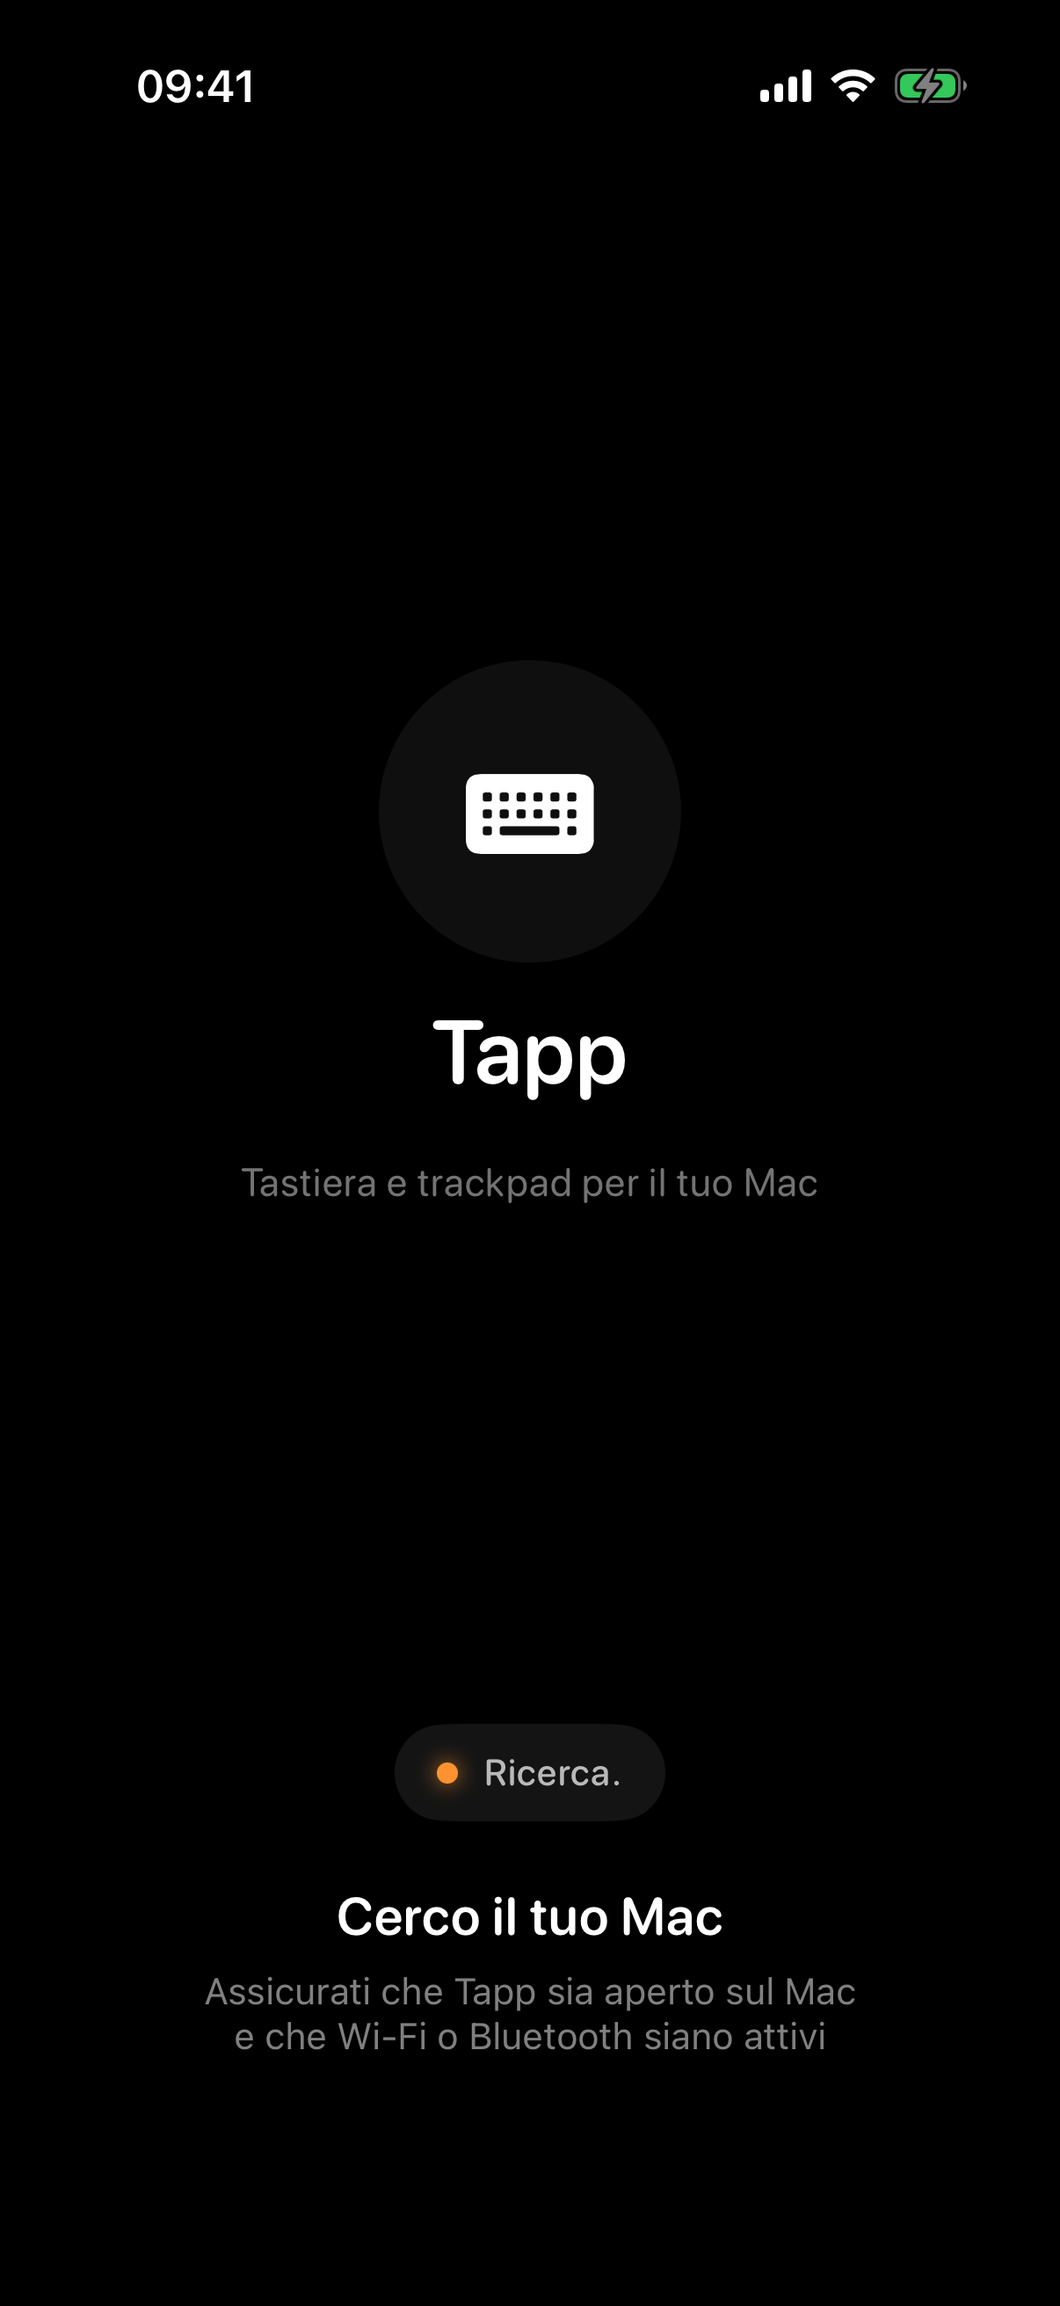
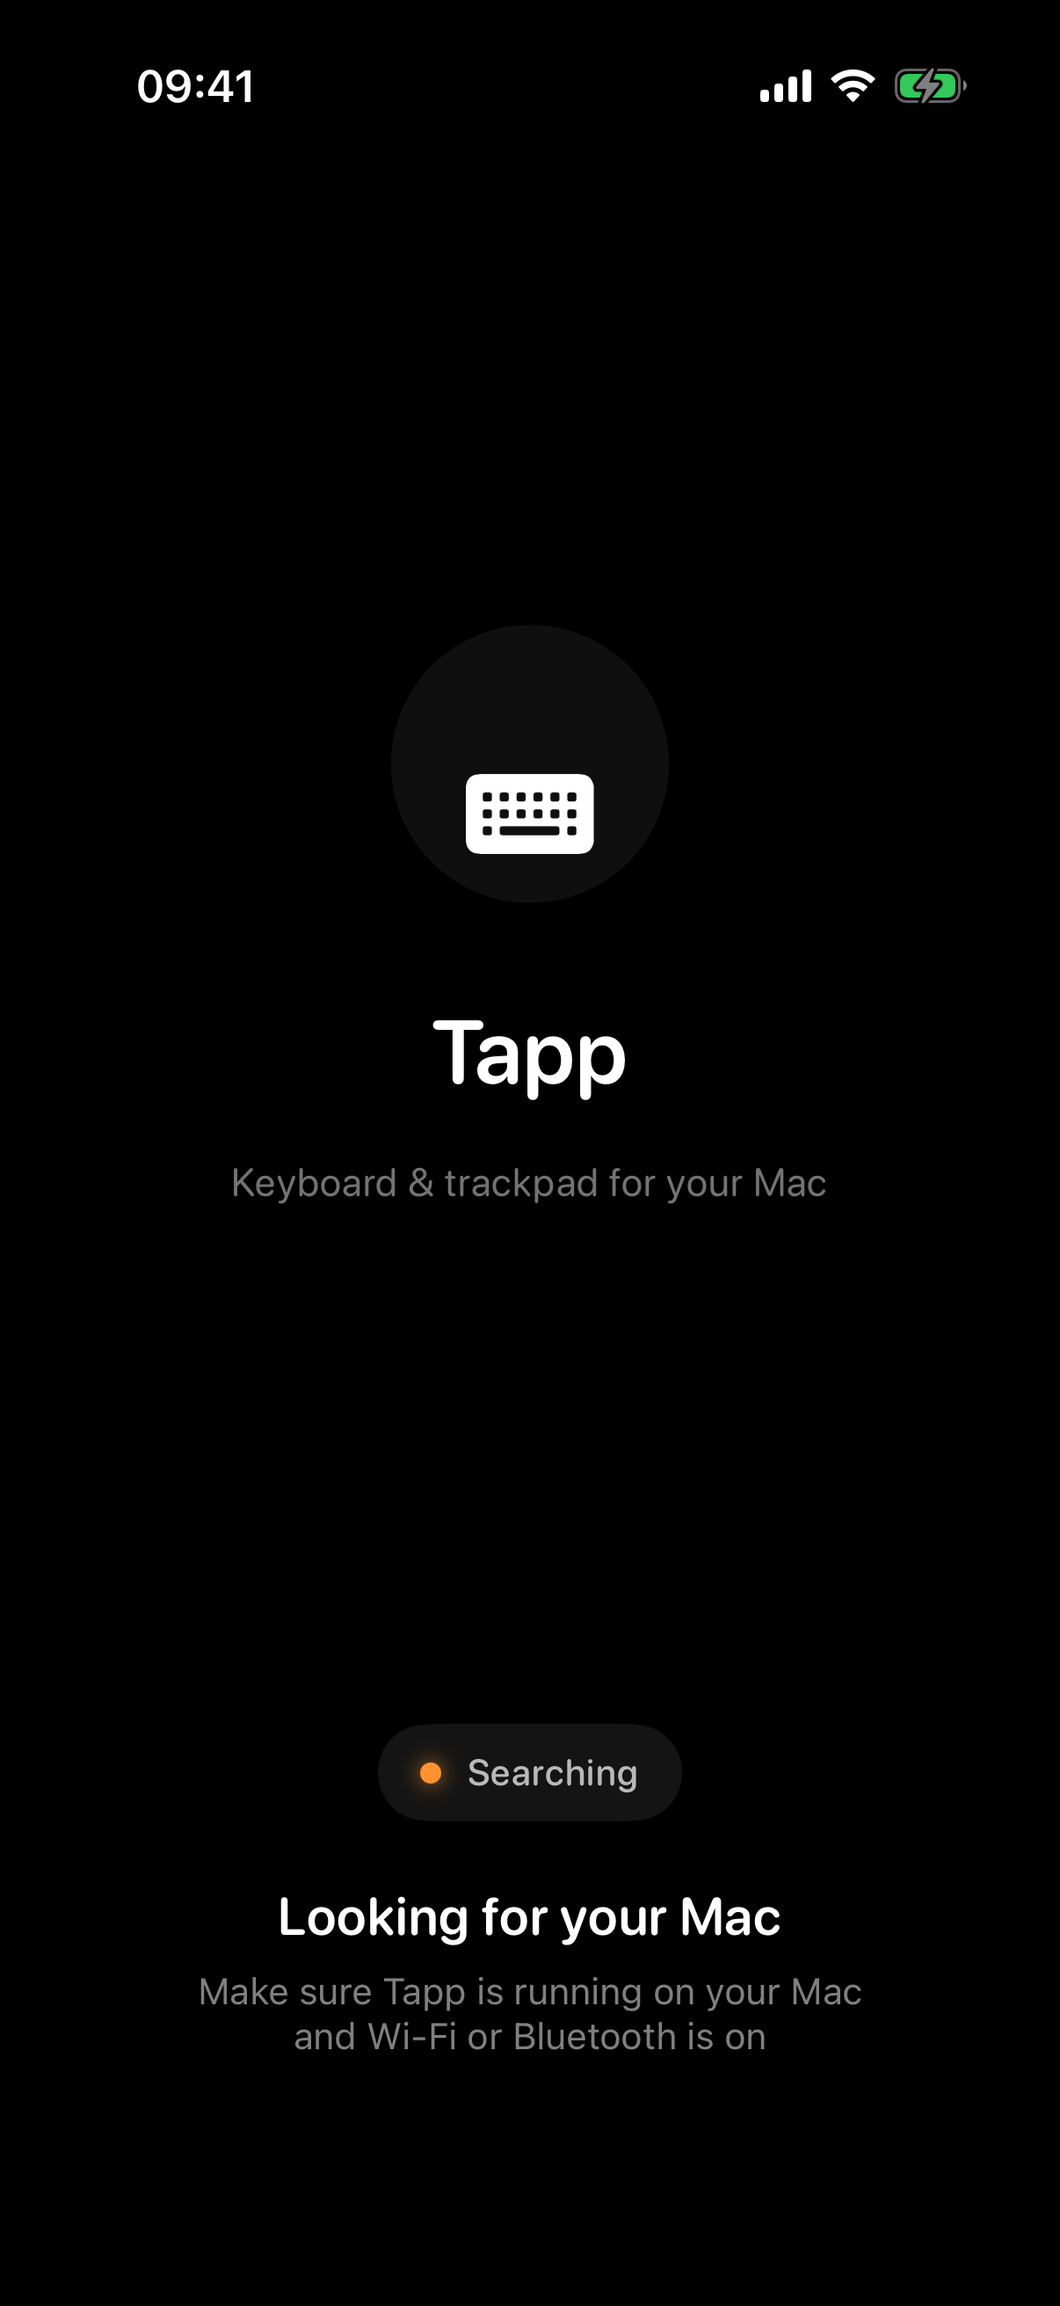
Translate app UI to English and refresh screenshots

diff --git a/Tapp/Tapp/TappMacOS/MacStatusWindowView.swift b/Tapp/Tapp/TappMacOS/MacStatusWindowView.swift
@@ -23,7 +23,7 @@ struct MacStatusWindowView: View {
                 Text("Tapp Mac Companion")
                     .font(.system(size: 20, weight: .bold, design: .rounded))
 
-                Text("Il tuo Mac è pronto per essere controllato dall'iPhone")
+                Text("Your Mac is ready to be controlled from your iPhone")
                     .font(.system(size: 13))
                     .foregroundColor(.secondary)
                     .multilineTextAlignment(.center)
@@ -41,12 +41,12 @@ struct MacStatusWindowView: View {
                         .shadow(color: (server.isClientConnected ? Color.green : Color.orange).opacity(0.6), radius: 4)
 
                     VStack(alignment: .leading, spacing: 2) {
-                        Text(server.isClientConnected ? (server.connectedPeerName ?? "iPhone Connesso") : "In attesa di connessione...")
+                        Text(server.isClientConnected ? (server.connectedPeerName ?? "iPhone connected") : "Waiting for connection…")
                             .font(.system(size: 14, weight: .semibold, design: .rounded))
 
                         Text(server.isClientConnected
-                             ? "Connessione attiva: pronto a ricevere comandi"
-                             : "Apri Tapp sull'iPhone (Bluetooth o Wi-Fi attivo)")
+                             ? "Connected: ready to receive input"
+                             : "Open Tapp on your iPhone (Wi-Fi or Bluetooth on)")
                             .font(.system(size: 12))
                             .foregroundColor(.secondary)
                     }
@@ -65,12 +65,12 @@ struct MacStatusWindowView: View {
                             .foregroundColor(permissionManager.isAccessibilityGranted ? .green : .orange)
 
                         VStack(alignment: .leading, spacing: 2) {
-                            Text(permissionManager.isAccessibilityGranted ? "Permesso Accessibilità: Concesso" : "Accessibilità richiesta")
+                            Text(permissionManager.isAccessibilityGranted ? "Accessibility permission granted" : "Accessibility required")
                                 .font(.system(size: 14, weight: .semibold, design: .rounded))
 
                             Text(permissionManager.isAccessibilityGranted
-                                 ? "Il Mac può ricevere input di tastiera e mouse"
-                                 : "Abilita Tapp in Impostazioni di Sistema per consentire mouse e tastiera")
+                                 ? "Your Mac can receive keyboard and mouse input"
+                                 : "Enable Tapp in System Settings to allow mouse and keyboard control")
                                 .font(.system(size: 12))
                                 .foregroundColor(.secondary)
                         }
@@ -80,7 +80,7 @@ struct MacStatusWindowView: View {
                         if permissionManager.isAccessibilityGranted {
                             HStack(spacing: 8) {
                                 Button(action: {}) {
-                                    Label("Concesso", systemImage: "checkmark")
+                                    Label("Granted", systemImage: "checkmark")
                                 }
                                 .buttonStyle(.bordered)
                                 .tint(.green)
@@ -92,15 +92,15 @@ struct MacStatusWindowView: View {
                                 }) {
                                     HStack(spacing: 4) {
                                         Image(systemName: "gearshape")
-                                        Text("Impostazioni")
+                                        Text("Settings")
                                     }
                                 }
                                 .buttonStyle(.bordered)
                                 .controlSize(.small)
-                                .help("Apri Impostazioni Privacy e Accessibilità del Mac")
+                                .help("Open Privacy & Security → Accessibility")
                             }
                         } else {
-                            Button("Apri Impostazioni") {
+                            Button("Open Settings") {
                                 permissionManager.openAccessibilityPrefs()
                             }
                             .buttonStyle(.borderedProminent)
@@ -111,19 +111,19 @@ struct MacStatusWindowView: View {
 
                     if !permissionManager.isAccessibilityGranted {
                         HStack(spacing: 12) {
-                            Text("Se l'hai già attivato nelle Impostazioni:")
+                            Text("Already enabled it in Settings?")
                                 .font(.system(size: 11))
                                 .foregroundColor(.secondary)
 
                             Spacer()
 
-                            Button("Ho già attivato") {
+                            Button("I've enabled it") {
                                 permissionManager.confirmManually()
                             }
                             .buttonStyle(.bordered)
                             .controlSize(.mini)
 
-                            Button("Riavvia App") {
+                            Button("Relaunch App") {
                                 permissionManager.relaunchApp()
                             }
                             .buttonStyle(.bordered)
@@ -143,20 +143,20 @@ struct MacStatusWindowView: View {
             HStack {
                 Image(systemName: "menubar.rectangle")
                     .foregroundColor(.secondary)
-                Text("Tapp è sempre attivo anche nella barra dei menu in alto a destra.")
+                Text("Tapp keeps running in the menu bar, top right.")
                     .font(.system(size: 11))
                     .foregroundColor(.secondary)
             }
 
             HStack {
-                Button("Chiudi finestra (resta nella Menu Bar)") {
+                Button("Close Window (keep in Menu Bar)") {
                     NSApp.keyWindow?.close()
                 }
                 .buttonStyle(.bordered)
 
                 Spacer()
 
-                Button("Esci da Tapp") {
+                Button("Quit Tapp") {
                     NSApp.terminate(nil)
                 }
                 .buttonStyle(.plain)

diff --git a/Tapp/Tapp/TappIOS/Views/ControllerView.swift b/Tapp/Tapp/TappIOS/Views/ControllerView.swift
@@ -88,7 +88,7 @@ struct ControllerView: View {
                 Button {
                     keyboardVisible = true
                 } label: {
-                    Label("Mostra tastiera", systemImage: "keyboard")
+                    Label("Show Keyboard", systemImage: "keyboard")
                         .font(.system(size: 15, weight: .semibold, design: .rounded))
                         .foregroundColor(.black)
                         .frame(maxWidth: .infinity)
@@ -125,7 +125,7 @@ struct ControllerView: View {
             HStack(spacing: 6) {
                 Circle().fill(Color.green).frame(width: 7, height: 7)
                     .shadow(color: .green.opacity(0.8), radius: 3)
-                Text(connectionManager.connectedPeerName ?? "Connesso")
+                Text(connectionManager.connectedPeerName ?? "Connected")
                     .font(.system(size: 13, weight: .medium, design: .rounded))
                     .foregroundColor(.white.opacity(0.6))
                     .lineLimit(1)
@@ -206,7 +206,7 @@ private struct ModePicker: View {
     var body: some View {
         HStack(spacing: 2) {
             segment("Spacebar", icon: "space", mode: .spacebar)
-            segment("Tastiera", icon: "keyboard", mode: .keyboard)
+            segment("Keyboard", icon: "keyboard", mode: .keyboard)
         }
         .padding(3)
         .background(Capsule().fill(Color.white.opacity(0.1)))
@@ -245,43 +245,43 @@ private struct SettingsSheet: View {
             Form {
                 Section("Trackpad") {
                     VStack(alignment: .leading) {
-                        Text("Velocità puntatore")
+                        Text("Pointer speed")
                         Slider(value: $pointerSpeed, in: 0.6...3.5)
                     }
                     VStack(alignment: .leading) {
-                        Text("Velocità scroll")
+                        Text("Scroll speed")
                         Slider(value: $scrollSpeed, in: 0.5...4)
                     }
-                    Toggle("Scorrimento naturale", isOn: $naturalScroll)
-                    Button("Ripristina predefiniti") {
+                    Toggle("Natural scrolling", isOn: $naturalScroll)
+                    Button("Restore Defaults") {
                         pointerSpeed = TrackpadSettings.defaultPointerSpeed
                         scrollSpeed = TrackpadSettings.defaultScrollSpeed
                         naturalScroll = true
                     }
                 }
 
-                Section("Gesti") {
-                    gestureRow("hand.point.up.left", "1 dito", "Muovi il puntatore")
-                    gestureRow("hand.tap", "Tap", "Click sinistro (2 tap = doppio click)")
-                    gestureRow("hand.tap.fill", "Tap con 2 dita", "Click destro")
-                    gestureRow("arrow.up.and.down.and.arrow.left.and.right", "2 dita", "Scroll")
-                    gestureRow("hand.draw", "Tieni premuto e muovi", "Trascina / seleziona")
+                Section("Gestures") {
+                    gestureRow("hand.point.up.left", "1 finger", "Move the pointer")
+                    gestureRow("hand.tap", "Tap", "Left click (tap twice to double-click)")
+                    gestureRow("hand.tap.fill", "Two-finger tap", "Right click")
+                    gestureRow("arrow.up.and.down.and.arrow.left.and.right", "Two fingers", "Scroll")
+                    gestureRow("hand.draw", "Press, hold and move", "Drag / select")
                 }
 
                 Section {
-                    Button("Disconnetti", role: .destructive) {
+                    Button("Disconnect", role: .destructive) {
                         dismiss()
                         connectionManager.disconnect()
                     }
                 } footer: {
-                    Text("Connesso a \(connectionManager.connectedPeerName ?? "Mac")")
+                    Text("Connected to \(connectionManager.connectedPeerName ?? "Mac")")
                 }
             }
-            .navigationTitle("Impostazioni")
+            .navigationTitle("Settings")
             .navigationBarTitleDisplayMode(.inline)
             .toolbar {
                 ToolbarItem(placement: .confirmationAction) {
-                    Button("Fine") { dismiss() }
+                    Button("Done") { dismiss() }
                 }
             }
         }

diff --git a/Tapp/Tapp/TappIOS/Views/ConnectionView.swift b/Tapp/Tapp/TappIOS/Views/ConnectionView.swift
@@ -26,7 +26,7 @@ struct ConnectionView: View {
                     Text("Tapp")
                         .font(.system(size: 34, weight: .semibold, design: .rounded))
                         .foregroundColor(.white)
-                    Text("Tastiera e trackpad per il tuo Mac")
+                    Text("Keyboard & trackpad for your Mac")
                         .font(.system(size: 15, weight: .regular, design: .rounded))
                         .foregroundColor(.white.opacity(0.45))
                 }
@@ -84,7 +84,7 @@ struct ConnectionView: View {
             Button(action: { connectionManager.startSearching() }) {
                 HStack(spacing: 10) {
                     Image(systemName: connectionManager.state == .idle ? "link" : "arrow.clockwise")
-                    Text(connectionManager.state == .idle ? "Connetti" : "Riprova").fontWeight(.semibold)
+                    Text(connectionManager.state == .idle ? "Connect" : "Try Again").fontWeight(.semibold)
                 }
                 .font(.system(size: 16, design: .rounded))
                 .foregroundColor(.black).frame(maxWidth: .infinity)
@@ -103,29 +103,29 @@ struct ConnectionView: View {
     }
     private var statusTitle: String {
         switch connectionManager.state {
-        case .idle: return "Pronto"
-        case .searching: return "Ricerca" + String(repeating: ".", count: dotCount)
-        case .connecting: return "Connessione" + String(repeating: ".", count: dotCount)
-        case .connected: return "Connesso"
-        case .failed: return "Non trovato"
+        case .idle: return "Ready"
+        case .searching: return "Searching" + String(repeating: ".", count: dotCount)
+        case .connecting: return "Connecting" + String(repeating: ".", count: dotCount)
+        case .connected: return "Connected"
+        case .failed: return "Not Found"
         }
     }
     private var mainMessage: String {
         switch connectionManager.state {
-        case .idle: return "Disconnesso"
-        case .searching: return "Cerco il tuo Mac"
-        case .connecting: return "Mac trovato"
-        case .connected: return "Connesso"
-        case .failed: return "Mac non trovato"
+        case .idle: return "Disconnected"
+        case .searching: return "Looking for your Mac"
+        case .connecting: return "Found your Mac"
+        case .connected: return "Connected"
+        case .failed: return "Mac not found"
         }
     }
     private var subMessage: String {
         switch connectionManager.state {
-        case .idle: return "Tocca Connetti per cercare di nuovo il Mac"
-        case .searching: return "Assicurati che Tapp sia aperto sul Mac\ne che Wi-Fi o Bluetooth siano attivi"
-        case .connecting: return "Connessione in corso…"
+        case .idle: return "Tap Connect to search for your Mac again"
+        case .searching: return "Make sure Tapp is running on your Mac\nand Wi-Fi or Bluetooth is on"
+        case .connecting: return "Establishing connection…"
         case .connected: return ""
-        case .failed: return "Assicurati che Tapp sia aperto sul Mac\ne che Wi-Fi o Bluetooth siano attivi"
+        case .failed: return "Make sure Tapp is running on your Mac\nand Wi-Fi or Bluetooth is on"
         }
     }
 }

diff --git a/Tapp/Tapp/TappMacOS/MenuBarView.swift b/Tapp/Tapp/TappMacOS/MenuBarView.swift
@@ -39,7 +39,7 @@ struct MenuBarView: View {
                         .font(.system(size: 13))
                         .foregroundColor(server.isClientConnected ? .primary : .secondary)
 
-                    Text(server.isClientConnected ? (server.connectedPeerName ?? "iPhone connected") : "Waiting for iPhone...")
+                    Text(server.isClientConnected ? (server.connectedPeerName ?? "iPhone connected") : "Waiting for iPhone…")
                         .font(.system(size: 13, design: .rounded))
                         .foregroundColor(server.isClientConnected ? .primary : .secondary)
                 }
@@ -49,7 +49,7 @@ struct MenuBarView: View {
                         Image(systemName: "checkmark.circle.fill")
                             .font(.system(size: 12))
                             .foregroundColor(.green)
-                        Text("Accessibilità concessa")
+                        Text("Accessibility granted")
                             .font(.system(size: 12, weight: .medium))
                             .foregroundColor(.secondary)
 
@@ -60,13 +60,13 @@ struct MenuBarView: View {
                         }) {
                             HStack(spacing: 3) {
                                 Image(systemName: "gearshape")
-                                Text("Apri")
+                                Text("Open")
                             }
                             .font(.system(size: 10))
                         }
                         .buttonStyle(.bordered)
                         .controlSize(.mini)
-                        .help("Apri Impostazioni Privacy e Accessibilità")
+                        .help("Open Privacy & Security → Accessibility")
                     }
                 } else {
                     VStack(alignment: .leading, spacing: 6) {
@@ -74,7 +74,7 @@ struct MenuBarView: View {
                             Image(systemName: "exclamationmark.triangle.fill")
                                 .font(.system(size: 12))
                                 .foregroundColor(.orange)
-                            Button("Concedi Accessibilità") {
+                            Button("Grant Accessibility") {
                                 permissionManager.openAccessibilityPrefs()
                             }
                             .buttonStyle(.plain)
@@ -83,13 +83,13 @@ struct MenuBarView: View {
                         }
 
                         HStack(spacing: 8) {
-                            Button("Ho già attivato") {
+                            Button("I've enabled it") {
                                 permissionManager.confirmManually()
                             }
                             .buttonStyle(.bordered)
                             .controlSize(.mini)
 
-                            Button("Riavvia App") {
+                            Button("Relaunch App") {
                                 permissionManager.relaunchApp()
                             }
                             .buttonStyle(.bordered)

diff --git a/Tapp/Tapp/TappIOS/Views/TrackpadView.swift b/Tapp/Tapp/TappIOS/Views/TrackpadView.swift
@@ -60,7 +60,7 @@ struct TrackpadView: View {
 
             if isDragLocked {
                 VStack {
-                    Label("Trascinamento", systemImage: "hand.draw.fill")
+                    Label("Dragging", systemImage: "hand.draw.fill")
                         .font(.system(size: 12, weight: .semibold, design: .rounded))
                         .foregroundColor(.accentColor)
                         .padding(.horizontal, 12).padding(.vertical, 6)
@@ -93,9 +93,9 @@ struct TrackpadView: View {
                 .foregroundColor(.white.opacity(0.18))
             HStack(spacing: 14) {
                 hint("hand.tap", "Click")
-                hint("hand.tap.fill", "2 dita: destro")
-                hint("arrow.up.and.down", "2 dita: scroll")
-                hint("hand.draw", "Tieni: trascina")
+                hint("hand.tap.fill", "2-finger tap: right")
+                hint("arrow.up.and.down", "2 fingers: scroll")
+                hint("hand.draw", "Hold: drag")
             }
         }
         .allowsHitTesting(false)

diff --git a/Tapp/Tapp/TappIOS/Managers/ConnectionManager.swift b/Tapp/Tapp/TappIOS/Managers/ConnectionManager.swift
@@ -20,7 +20,7 @@ enum ConnectionState: Equatable {
 final class ConnectionManager: NSObject, ObservableObject {
     @Published var state: ConnectionState = .idle
     @Published var connectedPeerName: String?
-    /// True after the user tapped "Disconnetti" — suppresses auto-search.
+    /// True after the user tapped "Disconnect" — suppresses auto-search.
     @Published var manuallyDisconnected = false
 
     private let myPeerID = MCPeerID(displayName: UIDevice.current.name)

diff --git a/README.md b/README.md
@@ -14,8 +14,6 @@ Tapp is a pair of native SwiftUI apps, one for iOS and one for macOS. Your iPhon
 
 <p align="center"><sub>Keyboard mode · Spacebar mode · Connecting</sub></p>
 
-> The app's interface is in Italian.
-
 ---
 
 ## Features
